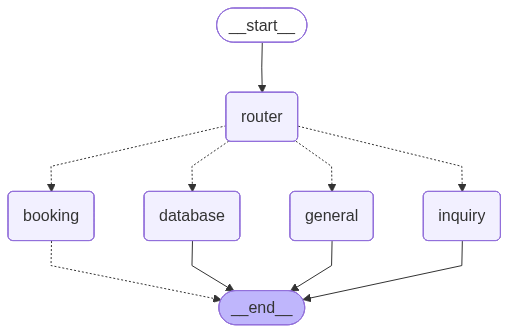
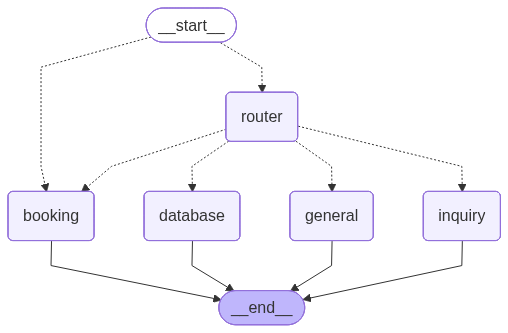
feat: introduce stateless router

diff --git a/core/graph/node/router.py b/core/graph/node/router.py
@@ -16,31 +16,24 @@ class RouterNode:
         llm = make_deepinfra_client(model_name).model
         self.structured_llm = llm.with_structured_output(RouteQuery)
 
-        system = """Anda adalah Router Cerdas untuk Klinik Dermatologi. Tugas Anda mengklasifikasikan niat pengguna ke salah satu dari 4 tujuan berikut:
+        system = """Anda adalah Router Cerdas.
+        
+        STATUS BOOKING SAAT INI: {booking_status}
+        (Jika 'True', berarti user sedang dalam proses tanya jawab data booking)
 
         ATURAN ROUTING:
         
-        1. **vectorstore**: 
-           - Gunakan untuk pertanyaan UMUM dan STATIS.
-           - Topik: Harga/Biaya perawatan, Penjelasan jenis facial/laser, Masalah kulit, Lokasi klinik.
-           - Contoh: "Berapa harga laser?", "Apa bedanya facial A dan B?", "Klinik buka jam berapa?".
-        
-        2. **database_tool**: 
-           - Gunakan untuk mencari data SPESIFIK/REAL-TIME (Read-Only).
-           - Topik: Ketersediaan dokter, mengecek jadwal praktek, melihat status janji temu yang sudah ada.
-           - Contoh: "Apakah Dr. Budi ada hari Senin?", "Siapa dokter yang tersedia besok?", "Cek jadwal Dr. Siti".
-        
-        3. **booking_tool**: 
-           - Gunakan JIKA DAN HANYA JIKA pengguna ingin MEMBUAT, MENGUBAH, atau MEMBATALKAN janji temu (Action/Write).
-           - Contoh: "Saya mau booking", "Reservasi untuk besok", "Daftarkan saya ke Dr. Siti jam 9", "Reschedule janji saya".
-        
-        4. **general**: 
-           - Pilih ini HANYA untuk sapaan atau obrolan ringan.
-           - Contoh: "Halo", "Selamat pagi", "Terima kasih", "Hai".
+        KONDISI 1: JIKA BOOKING STATUS = 'True':
+        - Prioritaskan **booking_tool** jika input user berupa jawaban pendek (Nama, Tanggal, Jam, Ya/Tidak).
+        - Hanya pilih **vectorstore** jika user bertanya soal harga/produk ("Berapa harganya?", "Apa itu facial A?").
+        - Hanya pilih **database_tool** jika user bertanya jadwal dokter ("Dr Budi ada?").
+        - Pilih **booking_tool** untuk melanjutkan proses data.
 
-        PENTING:
-        - Jika pengguna bertanya "Kapan Dr. Budi praktek?", arahkan ke **database_tool**.
-        - Jika pengguna berkata "Saya mau ketemu Dr. Budi", arahkan ke **booking_tool**.
+        KONDISI 2: JIKA BOOKING STATUS = 'False':
+        - **vectorstore**: Pertanyaan umum/harga/medis.
+        - **database_tool**: Cek jadwal/status real-time.
+        - **booking_tool**: Ingin membuat janji baru.
+        - **general**: Sapaan/obrolan ringan.
         """
 
         self.prompt = ChatPromptTemplate.from_messages([
@@ -52,13 +45,19 @@ class RouterNode:
 
     def __call__(self, state: GraphState):
         query = state["query"]
+        is_active = state.get("booking_active", False)
+        status_str = "True" if is_active else "False"
+        
         print(f"---ROUTING QUERY: {query}---")
+        print(f"---ROUTING (BookingActive: {status_str})---")
         
         try:
-            result = self.chain.invoke({"query": query})
+            result = self.chain.invoke({
+                "query": query, 
+                "booking_status": status_str
+            })
             destination = result.datasource
-        except Exception as e:
-            print(f"⚠ Routing Error: {e}. Fallback to general.")
+        except Exception:
             destination = "general"
 
         print(f"---ROUTED TO: {destination}---")

diff --git a/core/graph/workflow.py b/core/graph/workflow.py
@@ -19,8 +19,20 @@ def build_graph():
     workflow.add_node(INQUIRY, inquiry_node)
     workflow.add_node(DATABASE, sql_node)
     workflow.add_node(BOOKING, booking_node)
+
+    def check_active_flow(state):
+        if state.get("booking_active"):
+            return BOOKING
+        return ROUTER
     
-    workflow.add_edge(START, ROUTER)
+    workflow.add_conditional_edges(
+        START,
+        check_active_flow,
+        {
+            BOOKING: BOOKING,
+            ROUTER: ROUTER
+        }
+    )
     
     def route_decision(state):
         decision = state.get("next_step")
@@ -46,14 +58,7 @@ def build_graph():
     workflow.add_edge(INQUIRY, END)
     workflow.add_edge(GENERAL, END)
     workflow.add_edge(DATABASE, END)
-    def check_booking_status(state):
-        return END 
-
-    workflow.add_conditional_edges(
-        BOOKING,
-        check_booking_status,
-        {END: END}
-    )
+    workflow.add_edge(BOOKING, END)
     
     checkpointer = MemorySaver()
 

diff --git a/core/graph/agent/booking.py b/core/graph/agent/booking.py
@@ -55,6 +55,10 @@ class BookingAgent:
             if value is not None:
                 updated_details[key] = value
 
+        required_fields = ["name", "phone_number", "date", "time"] 
+        missing_fields = [k for k in required_fields if not updated_details.get(k)]
+        is_active = len(missing_fields) > 0
+
         response_chain = self.response_prompt | self.llm
         response = response_chain.invoke({
             "messages": messages,
@@ -64,5 +68,6 @@ class BookingAgent:
         return {
             "booking_details": updated_details,
             "messages": [response],
-            "next_step": "end"
+            "next_step": "end",
+            "booking_active": is_active
         }

diff --git a/core/graph/state.py b/core/graph/state.py
@@ -2,12 +2,9 @@ from typing import List, TypedDict, Annotated
 from langchain_core.messages import AnyMessage
 from langgraph.graph.message import add_messages
 
-from core.schemas import BookingSchema
-
 class GraphState(TypedDict):
     messages: Annotated[List[AnyMessage], add_messages]
     query: str
-    documents: List[str]
     next_step: str
-    tool_status: str
-    booking_details: BookingSchema
+    booking_details: dict
+    booking_active: bool
